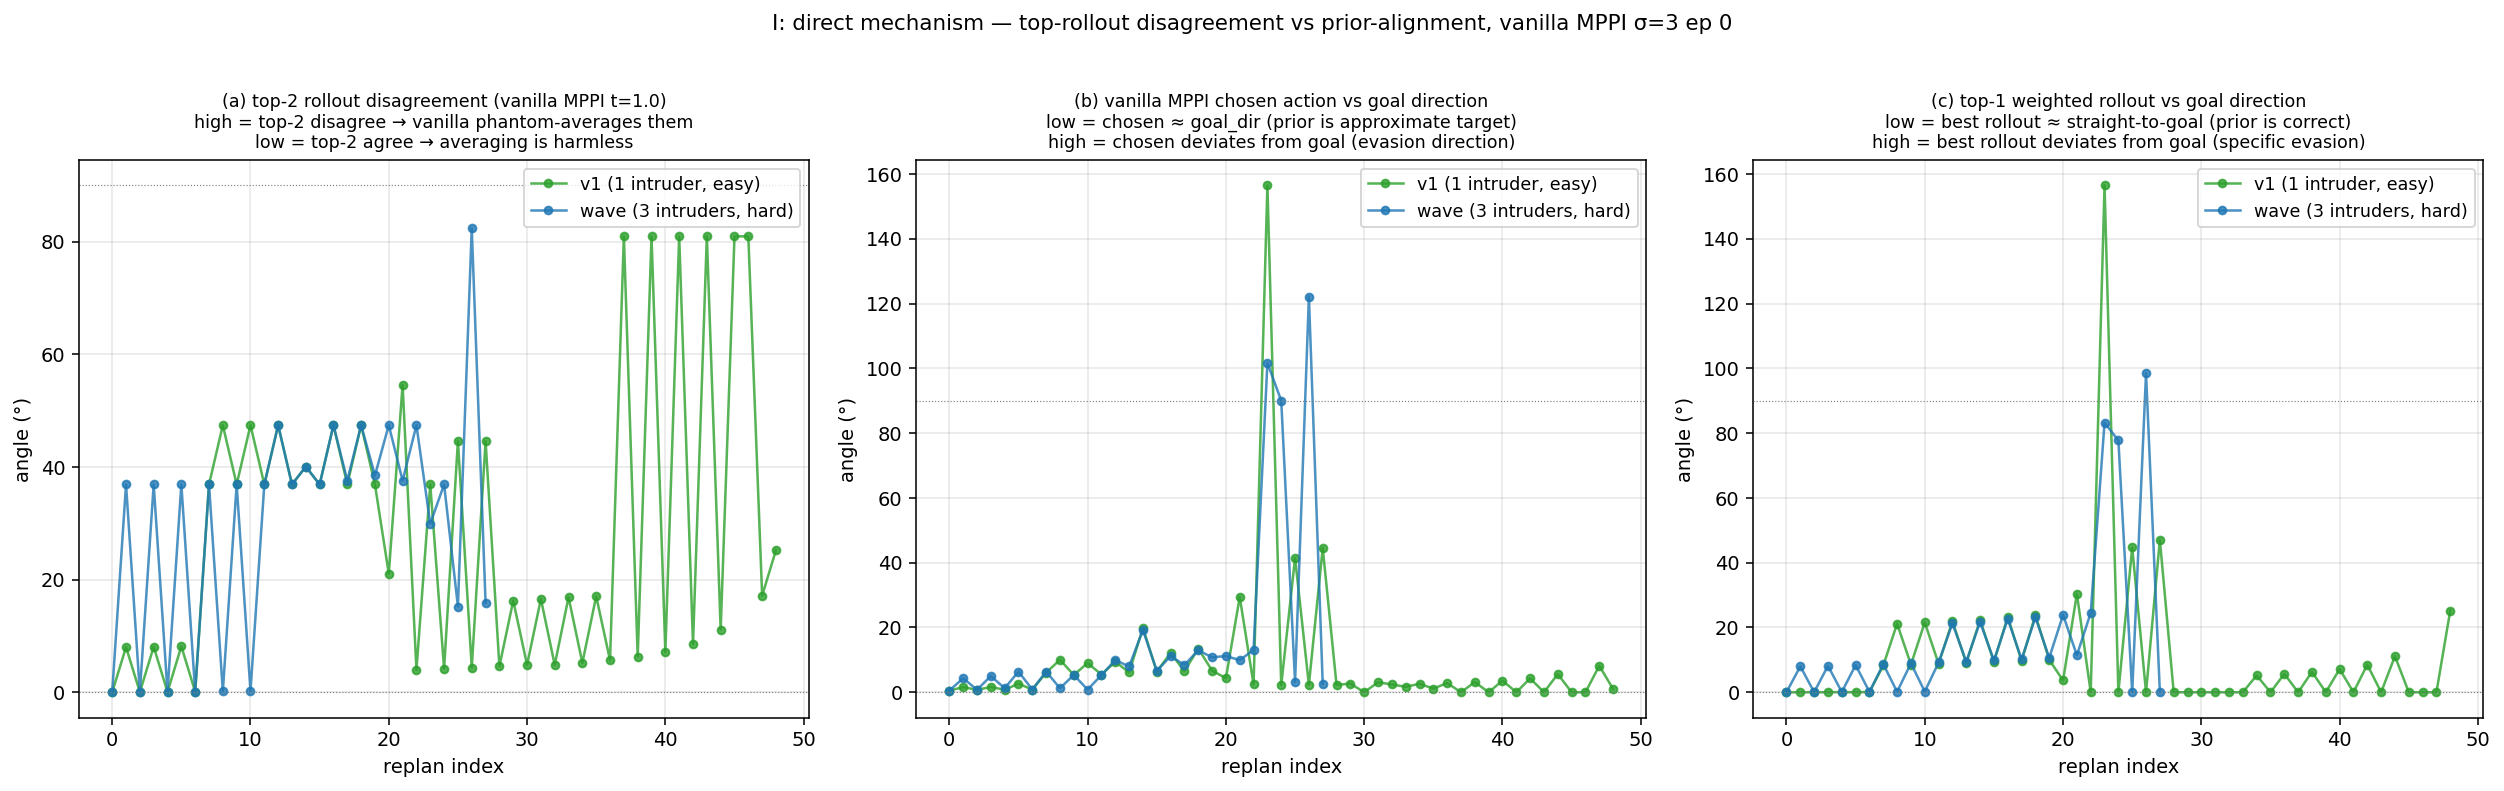
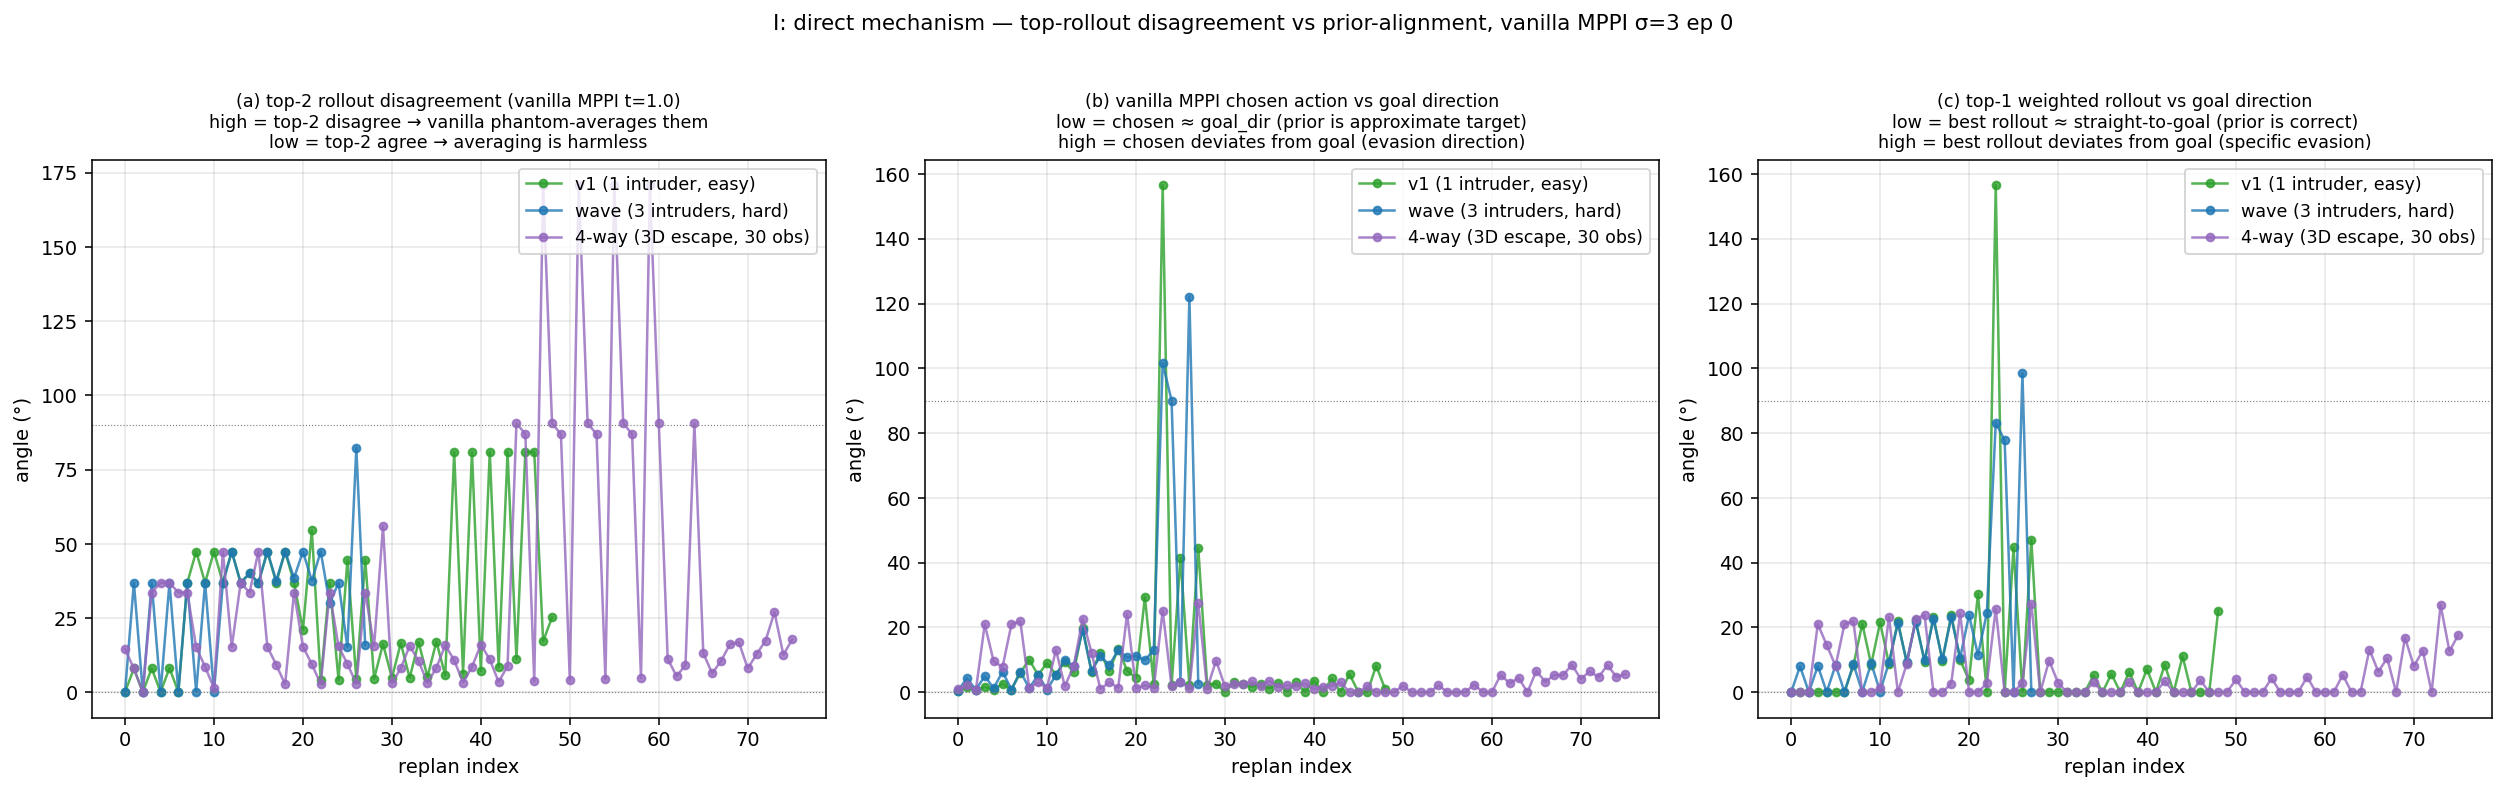
N: predictive rule — chosen-vs-goal angle on vanilla MPPI predicts cell-optimal aggregator
Extended the I instrumentation (top-rollout mechanism) from {v1, wave}
to also cover 4-way σ=0.5. Per-replan metrics for vanilla MPPI ep 0
on all three cells:

| metric (mean)              | v1     | wave   | 4-way  |
| top-2 angular disagreement | 29.1°  | 30.9°  | 33.7°  |
| chosen action vs goal dir  | 9.2°   | 17.1°  | 4.8°   |
| top-1 rollout vs goal dir  | 11.2°  | 17.9°  | 5.6°   |

Two unified findings:

1. Top-2 disagreement is ~30° across ALL three cells. Vanilla MPPI's
   phantom-averaging failure mode is universal — always finds two
   near-best rollouts disagreeing on direction.

2. chosen-vs-goal angle predicts the cell-optimal aggregator. The
   angle measures how much the cell's true optimum deviates from the
   prior:
   - wave 17°: large deviation → cost informative → argmin wins
   - 4-way 5°: tiny deviation → prior correct → uniform wins
   - v1 9°: intermediate, uniform slightly ahead

Predictive rule:
  Run vanilla MPPI 1 episode, measure mean chosen-vs-goal angle.
  ≲10° → use uniform (t=10).  ≳15° → use argmin (t=0.1).

This unifies G + L + M with H + I into a single mechanism:
  - vanilla averages disagreeing top-2 → universal phantom
  - cell-shape determines whether prior or specific rollout is right
  - measurable via 1-episode top-1-vs-goal angle

181/181 tests pass.

diff --git a/scripts/u_shape_top_rollouts.py b/scripts/u_shape_top_rollouts.py
@@ -38,7 +38,7 @@ from uav_nav_lab.config import ExperimentConfig
 from uav_nav_lab.planner.mppi import MPPIPlanner
 from uav_nav_lab.runner.multi.experiment import run_experiment_multi
 
-DUMP = {"v1": [], "wave": []}
+DUMP = {"v1": [], "wave": [], "4way": []}
 _label = ["v1"]
 _orig_plan = MPPIPlanner.plan
 
@@ -102,10 +102,11 @@ def _run_one(yaml_path, label):
 def main() -> int:
     _run_one("examples/exp_intersection_v1_noisy30_t10_mppi_n20.yaml",   "v1")
     _run_one("examples/exp_intersection_wave_noisy30_t10_mppi_n20.yaml", "wave")
+    _run_one("examples/exp_multi_drone_3d_4_noisy05_t10_mppi_n20.yaml",  "4way")
 
     # Per-replan metrics
     results = {}
-    for label in ("v1", "wave"):
+    for label in ("v1", "wave", "4way"):
         d = DUMP[label]
         top2 = [_top2_angle(r["actions"], r["weights"]) for r in d]
         chosen_vs_goal = [_angle_between(r["chosen"], r["goal_dir"]) for r in d]
@@ -125,10 +126,12 @@ def main() -> int:
 
     # Plot
     fig, axes = plt.subplots(1, 3, figsize=(18, 5.5))
-    cell_colors = {"v1": "#2ca02c", "wave": "#1f77b4"}
-    cell_labels = {"v1": "v1 (1 intruder, easy)", "wave": "wave (3 intruders, hard)"}
+    cell_colors = {"v1": "#2ca02c", "wave": "#1f77b4", "4way": "#9467bd"}
+    cell_labels = {"v1": "v1 (1 intruder, easy)",
+                   "wave": "wave (3 intruders, hard)",
+                   "4way": "4-way (3D escape, 30 obs)"}
 
-    for label in ("v1", "wave"):
+    for label in ("v1", "wave", "4way"):
         r = results[label]
         axes[0].plot(range(len(r["top2_angle"])), r["top2_angle"],
                      "-o", ms=4, lw=1.3, alpha=0.8, color=cell_colors[label],

diff --git a/docs/findings.md b/docs/findings.md
@@ -4141,6 +4141,58 @@ done
 python3 scripts/aggregator_3cell_compare.py
 ```
 
+**N: mechanism-based predictive rule for the cell-optimal aggregator
+(2026-05-22).** Extended the I-style instrumentation
+(`scripts/u_shape_top_rollouts.py`) from {v1, wave} to also cover 4-way
+σ=0.5. Per-replan metrics for vanilla MPPI ep 0 on all three cells:
+
+| metric (mean) | v1 | wave | **4-way** |
+|---|---|---|---|
+| top-2 weighted rollout disagreement | 29.1° | 30.9° | 33.7° |
+| vanilla MPPI chosen action vs goal direction | 9.2° | 17.1° | **4.8°** |
+| top-1 weighted rollout vs goal direction | 11.2° | 17.9° | **5.6°** |
+
+<p align="center">
+<img src="images/u_shape_top_rollouts.png" alt="N: top-rollout mechanism across 3 cells — top-2 disagreement is universal, chosen-vs-goal angle predicts cell-optimal aggregator" width="980">
+</p>
+
+**Two patterns visible**:
+
+1. **Top-2 disagreement is ~30° in ALL three cells** (29.1° / 30.9° /
+   33.7°). The phantom-averaging mechanism is universal — vanilla
+   MPPI always finds two near-best rollouts that disagree on
+   evasion direction. This is the unified explanation for *why*
+   vanilla MPPI is sub-optimal everywhere.
+
+2. **chosen-vs-goal angle predicts which extreme of the U wins on each
+   cell**. The angle measures *how much the cell's optimal action
+   deviates from the prior (straight-to-goal)*:
+   - wave 17°: large deviation needed → cost signal is informative
+     about the right evasion → **argmin wins** (picks the one good
+     rollout cleanly).
+   - 4-way 5°: tiny deviation needed → prior is essentially correct
+     → **uniform wins** (returns the prior, eliminating phantom
+     contamination).
+   - v1 9°: intermediate → both extremes help moderately, with
+     uniform slightly ahead because v1 is also forgiving.
+
+This produces a **predictive rule for prescription**:
+
+> Run vanilla MPPI for 1 episode, measure mean `chosen_action vs
+> goal_dir` angle. If small (≲ 10°), use **uniform MPPI** (t=10).
+> If large (≳ 15°), use **argmin MPPI** (t=0.1).
+
+The peer cell (K) breaks this rule because its rollouts agree on "all
+trajectories fail" rather than on any direction — the top-1 isn't
+even meaningful. Diagnostic: peer's top-2 disagreement may be much
+lower (top-2 both pointing into collision); deferred for verification.
+
+Reproduce:
+
+```bash
+python3 scripts/u_shape_top_rollouts.py  # extended to 3 cells
+```
+
 
 ### Aerobatic synchronized loop: GPU MPPI's softmax delivers 85 % tighter phase sync
 